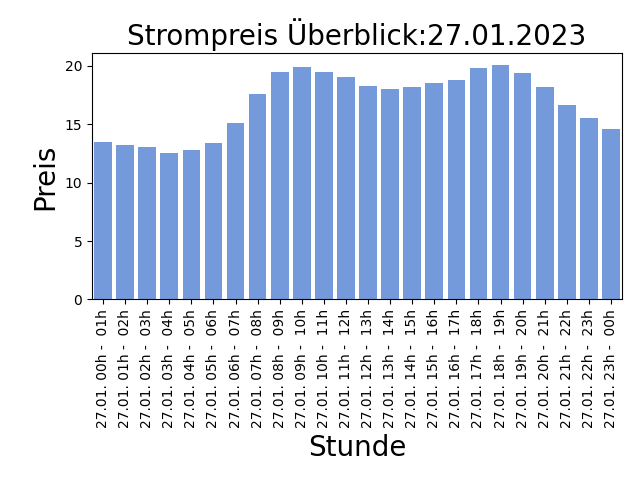
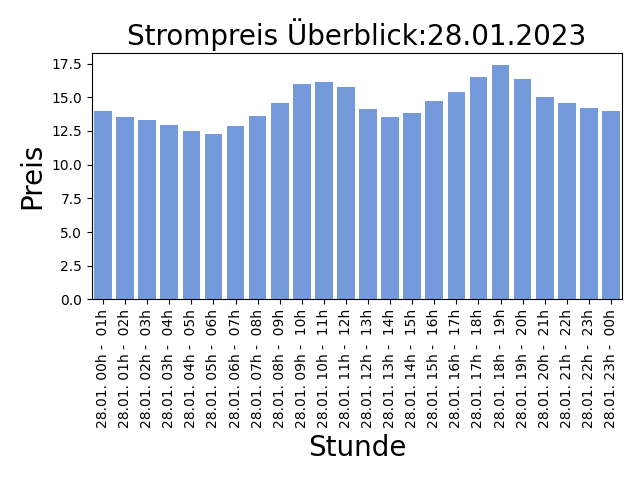
AUTOMATIC UPDATE PRICE LIST: 2023-01-27-14:30:06

diff --git a/README.md b/README.md
@@ -1,5 +1,5 @@
 
-## Strompreise für den 27.01.2023
+## Strompreise für den 28.01.2023
 
 Niedrige Preise deuten auf viel Sonnen und Windenergieerzeugung hin, ein hoher Anteil an erneuerbaren Energien bedeuted weniger CO2 Verbrauch!
 
@@ -7,31 +7,31 @@ Niedrige Preise deuten auf viel Sonnen und Windenergieerzeugung hin, ein hoher A
 
 | Stunde | Preis in Cent/kWh |
 |---|---|
-| 27.01. 00h -  01h | 13.5 | 
-| 27.01. 01h -  02h | 13.222999999999999 | 
-| 27.01. 02h -  03h | 13.032 | 
-| **27.01. 03h -  04h** | **12.511** | 
-| 27.01. 04h -  05h | 12.831 | 
-| 27.01. 05h -  06h | 13.412 | 
-| 27.01. 06h -  07h | 15.100999999999999 | 
-| 27.01. 07h -  08h | 17.61 | 
-| 27.01. 08h -  09h | 19.5 | 
-| 27.01. 09h -  10h | 19.919 | 
-| 27.01. 10h -  11h | 19.5 | 
-| 27.01. 11h -  12h | 19.0 | 
-| 27.01. 12h -  13h | 18.306 | 
-| 27.01. 13h -  14h | 18.0 | 
-| 27.01. 14h -  15h | 18.15 | 
-| 27.01. 15h -  16h | 18.5 | 
-| 27.01. 16h -  17h | 18.8 | 
-| 27.01. 17h -  18h | 19.805 | 
-| 27.01. 18h -  19h | 20.07 | 
-| 27.01. 19h -  20h | 19.369999999999997 | 
-| 27.01. 20h -  21h | 18.15 | 
-| 27.01. 21h -  22h | 16.625 | 
-| 27.01. 22h -  23h | 15.512 | 
-| 27.01. 23h -  00h | 14.6 | 
+| 28.01. 00h -  01h | 13.99 | 
+| 28.01. 01h -  02h | 13.506 | 
+| 28.01. 02h -  03h | 13.338 | 
+| 28.01. 03h -  04h | 12.959 | 
+| 28.01. 04h -  05h | 12.528 | 
+| **28.01. 05h -  06h** | **12.283** | 
+| 28.01. 06h -  07h | 12.885 | 
+| 28.01. 07h -  08h | 13.632 | 
+| 28.01. 08h -  09h | 14.543000000000001 | 
+| 28.01. 09h -  10h | 16.016 | 
+| 28.01. 10h -  11h | 16.157 | 
+| 28.01. 11h -  12h | 15.73 | 
+| 28.01. 12h -  13h | 14.156 | 
+| 28.01. 13h -  14h | 13.532 | 
+| 28.01. 14h -  15h | 13.815999999999999 | 
+| 28.01. 15h -  16h | 14.713999999999999 | 
+| 28.01. 16h -  17h | 15.427000000000001 | 
+| 28.01. 17h -  18h | 16.493000000000002 | 
+| 28.01. 18h -  19h | 17.406 | 
+| 28.01. 19h -  20h | 16.356 | 
+| 28.01. 20h -  21h | 14.996 | 
+| 28.01. 21h -  22h | 14.613 | 
+| 28.01. 22h -  23h | 14.222999999999999 | 
+| 28.01. 23h -  00h | 13.978 | 
 
 Preise der EPEX Spot ® Strombörse (neue Preise werden täglich um 14:00 veröffentlicht für den kompletten nächsten Tag).
 
-letzte Aktualisierung:26.01.2023 14:30
+letzte Aktualisierung:27.01.2023 14:30
